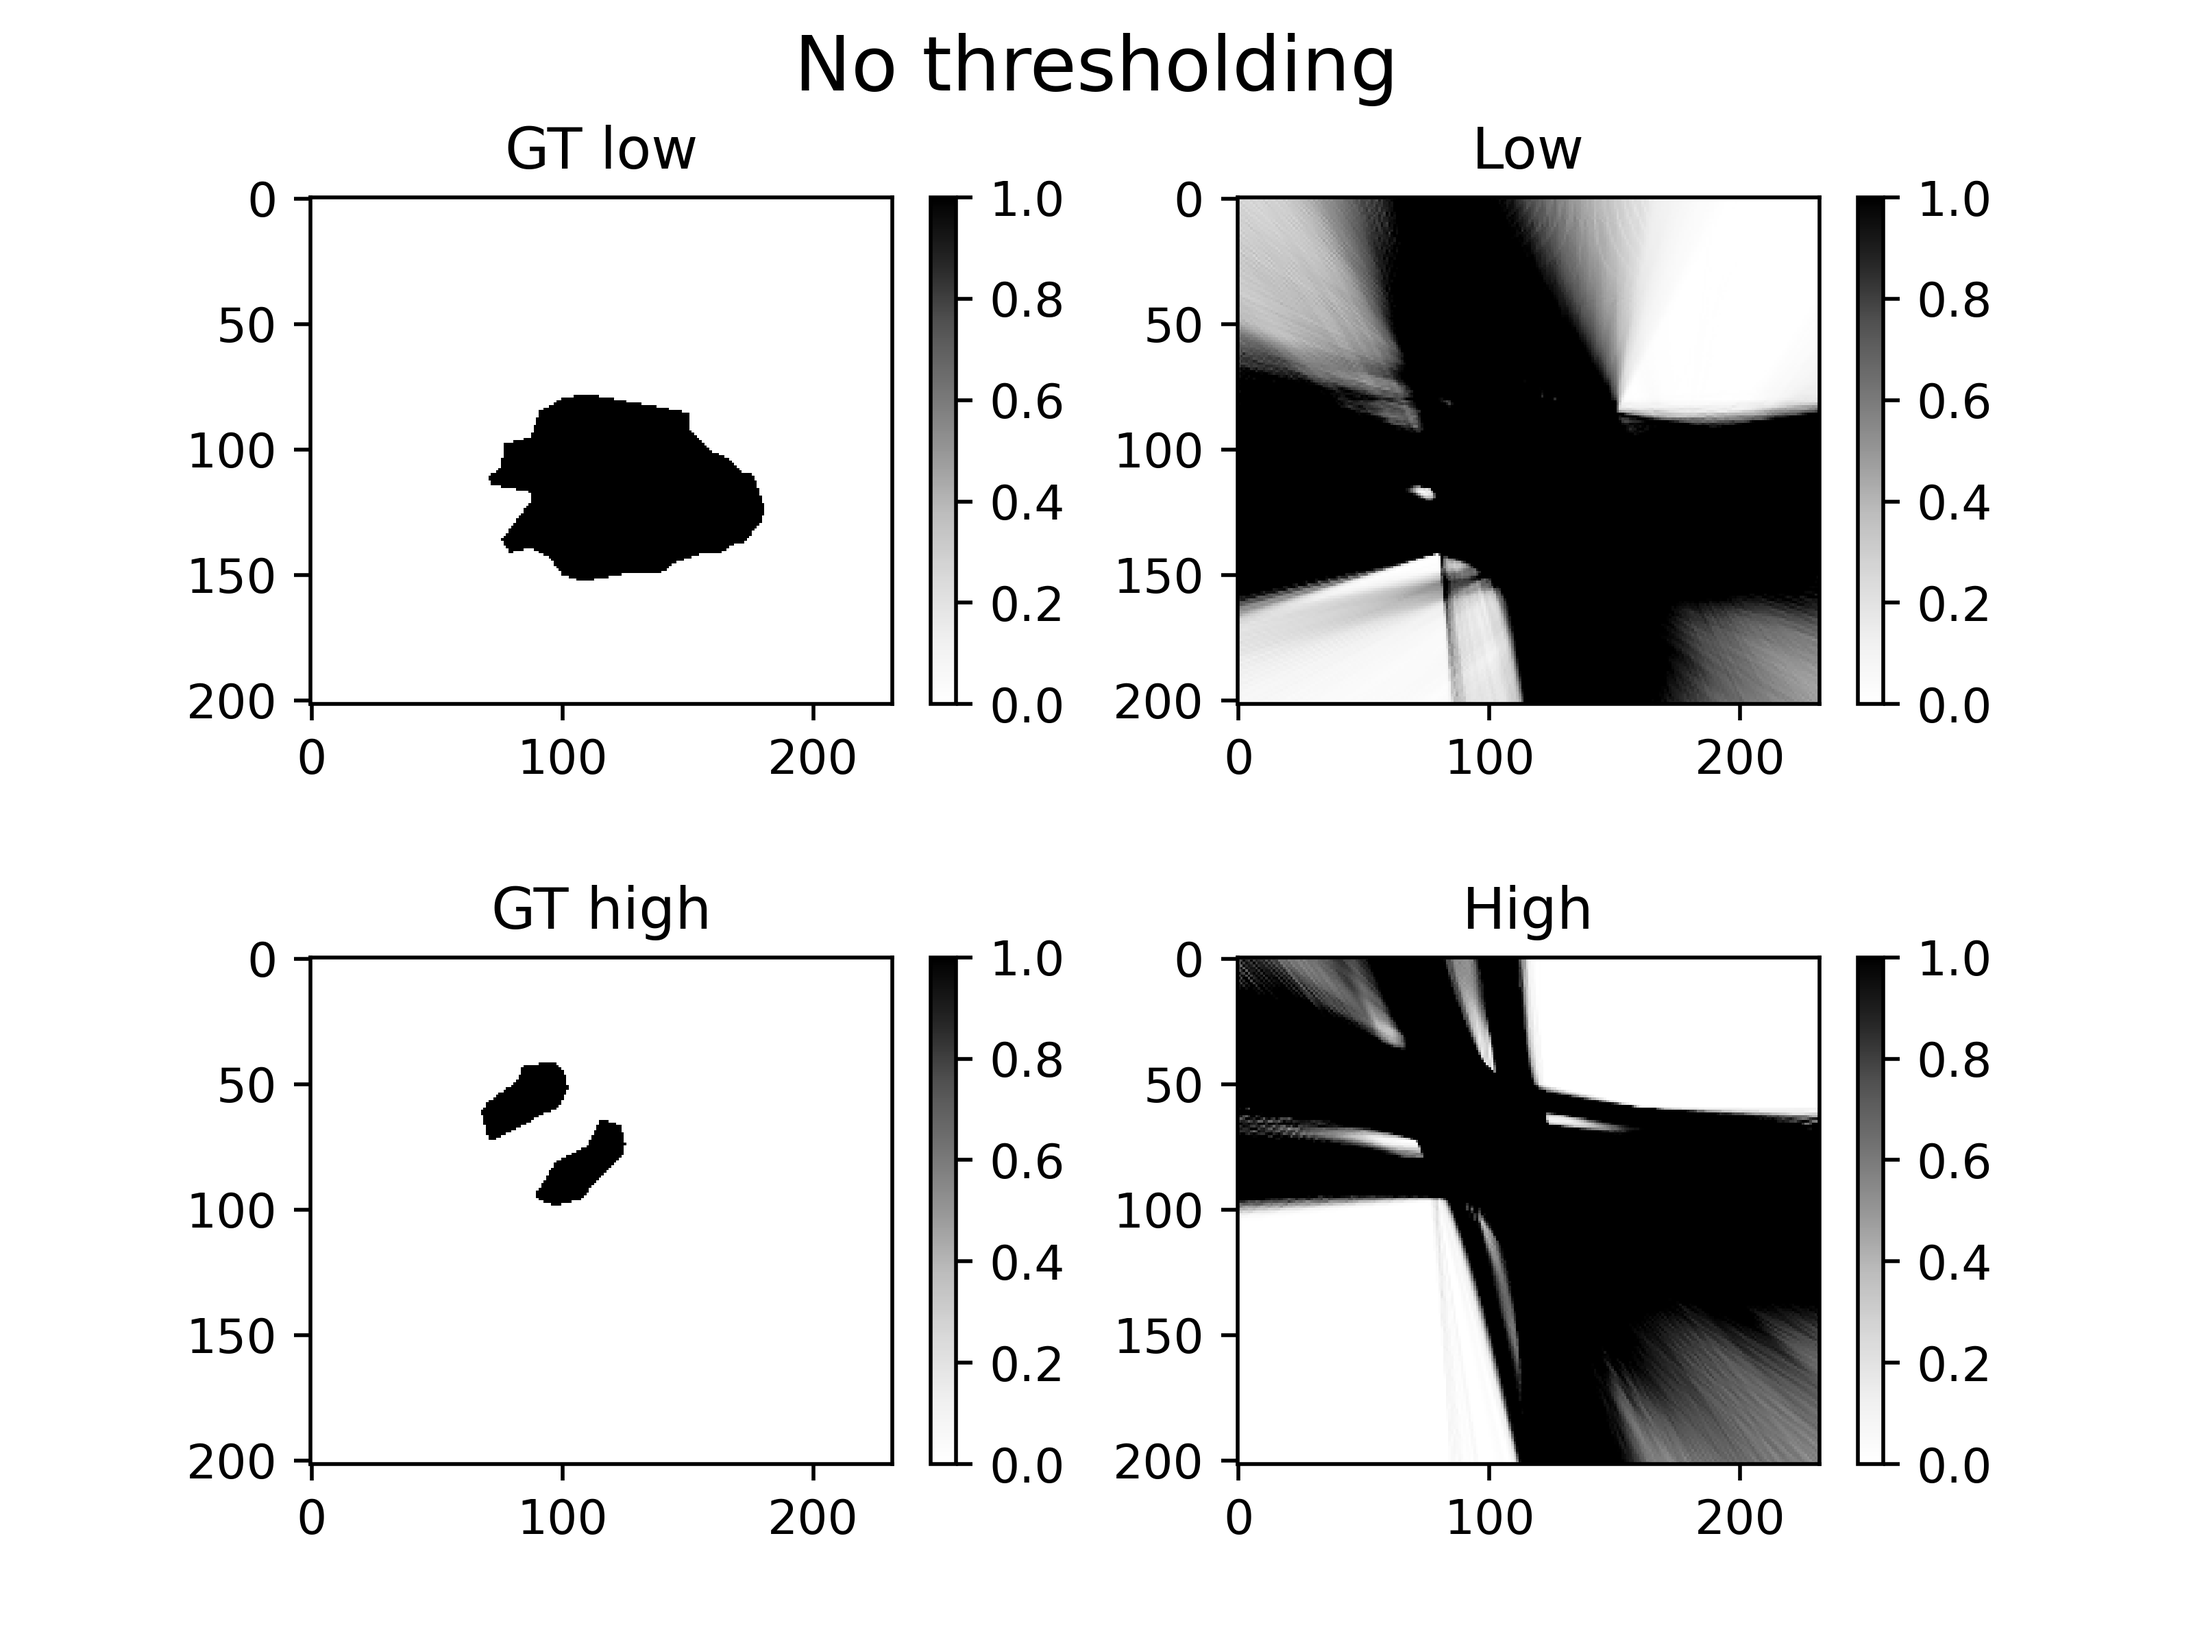
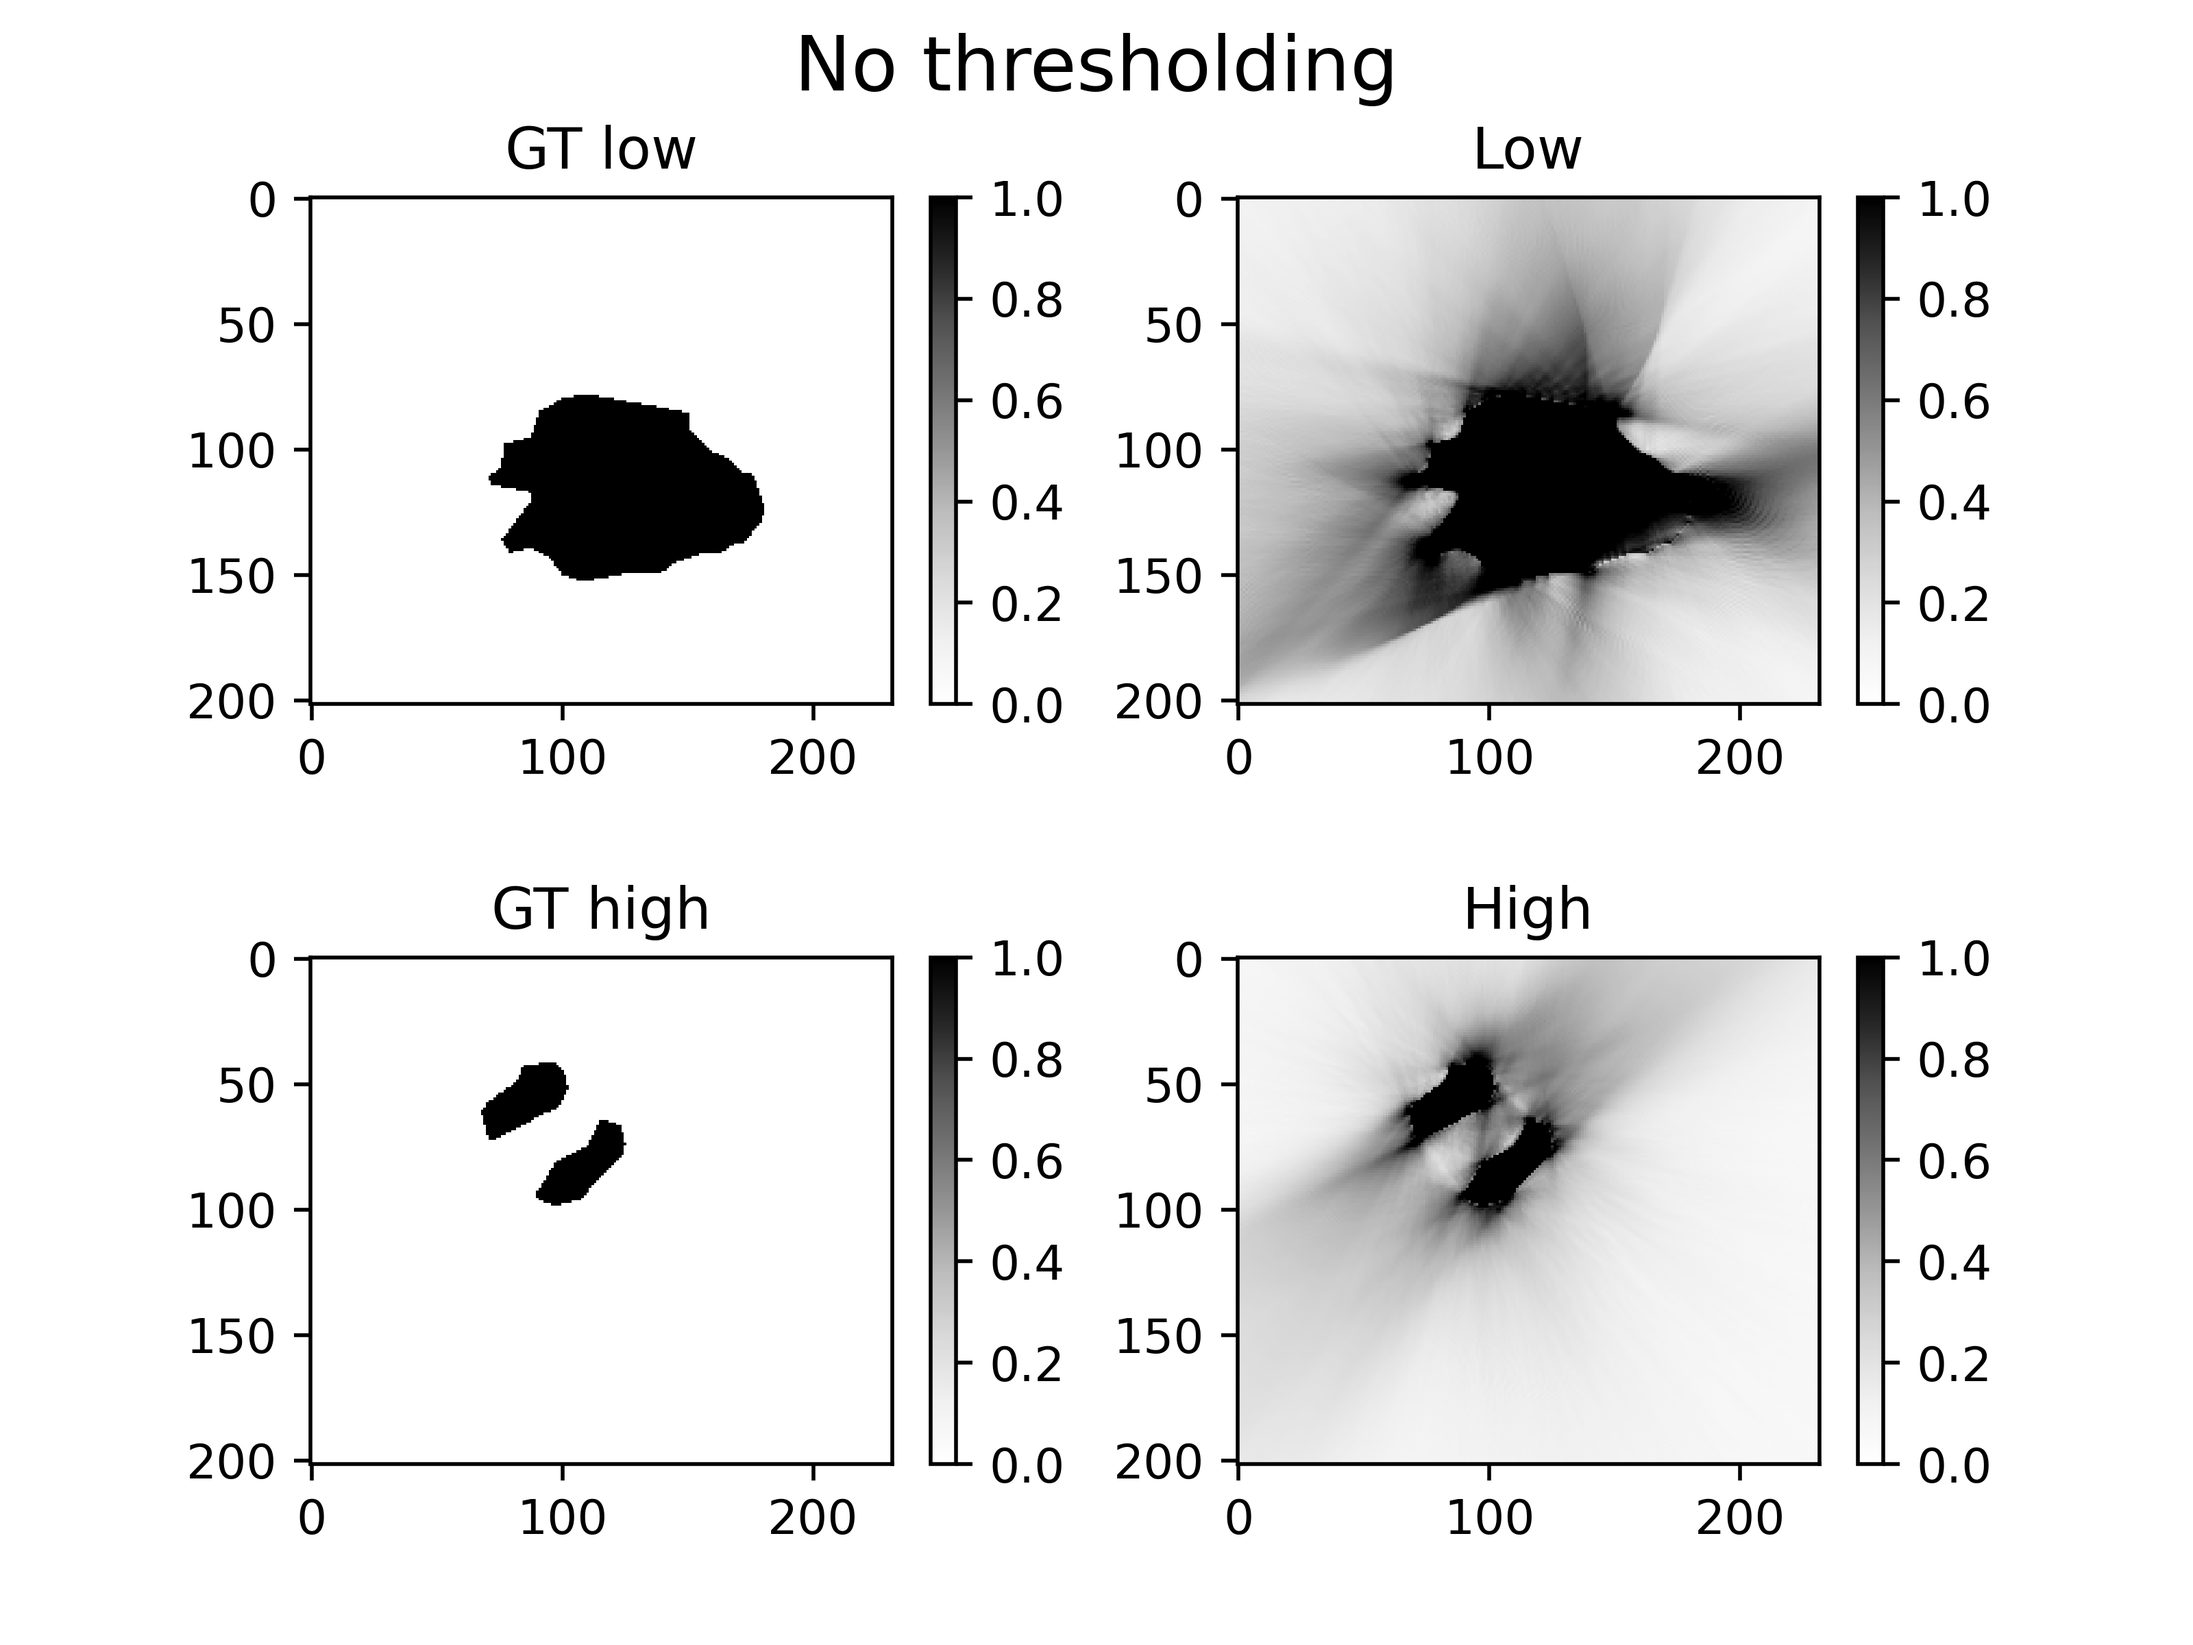
[xray] fixed refraction

Changed region(s): [[0.5625, 0.5625, 0.8438, 0.9062], [0.5625, 0.0938, 0.8438, 0.4375]]

diff --git a/src/pyxu/experimental/xray/refraction.py b/src/pyxu/experimental/xray/refraction.py
@@ -92,17 +92,19 @@ def intersection_line_sphere(
     xp = pxa.get_array_module(t_init)
 
     t_init_2 = t_init[:, :2]
-    n_dir_2 = n_dir[:, :2]
+    n_dir_2 = normalize(n_dir[:, :2])
     dot_prod = xp.einsum("ij,ij->i", t_init_2, n_dir_2)
 
     radicand = (dot_prod**2) + radius * radius - (t_init_2**2).sum(axis=-1)
 
     no_intersec_mask = radicand < 0 | xp.any(xp.isnan(n_dir), axis=-1)
-    radicand[no_intersec_mask] = 0.0
+    radicand[no_intersec_mask] = xp.nan
 
     sqrt_rad = xp.sqrt(radicand)
     x1 = -dot_prod + sqrt_rad
+    x1[x1 < 0] = xp.nan
     x2 = -dot_prod - sqrt_rad
+    x2[x2 < 0] = xp.nan
 
     v1 = t_init + n_dir * x1[:, xp.newaxis]
     v2 = t_init + n_dir * x2[:, xp.newaxis]
@@ -198,14 +200,14 @@ def sine(v, w):
     return sines
 
 
-def test_snell():
+def snell_test():
     k = np.array([[1, -1, 0], [-1, -4, -5], [-1, -2, 6], [5, 3, 2]])
     k = k / np.linalg.norm(k, axis=-1)[:, np.newaxis]
     k = k
     n = np.array([[0, 1, 0], [1, 5, 1], [1, 2, 9], [5, 1, 4]])
     n = n / np.linalg.norm(n, axis=-1)[:, np.newaxis]
-    n1 = 1.9
-    n2 = 1
+    n1 = 1.3
+    n2 = 1.6
     res1 = snell_vectorial(n1, n2, k, n)
 
     print(snell_vectorial(n1, n2, k, n))
@@ -215,12 +217,12 @@ def test_snell():
     print(n2 * sine(res1, n) - n1 * sine(k, n))
 
 
-def test_f():
+def refraction_test():
     c_spec = [1, 8, 0, 10, 0, 10]
-    r_spec = [1, 1.4, 1.45]
-    n_in = np.array([[-1, 0, 0], [-1, 0.4, 0.1]])
+    r_spec = [1, 1, 1]
+    n_in = np.array([[-1, 0, 0], [-1, 0.4, 0.1], [1, -0.4, 0.1]])
 
-    t_init = np.array([[20, 0, 5], [-10, 0, 5]])
+    t_init = np.array([[20, 0, 5], [-10, 0, 5], [-10, 0, 5]])
 
     n_out, t_out = refract(n_in, t_init, r_spec, c_spec)
 
@@ -228,5 +230,50 @@ def test_f():
     print(t_out)
 
 
+def refraction_test_2():
+    num_n = 4
+    num_t = 3
+
+    side = np.r_[200, 200]
+    pitch = 1.0
+
+    angle = np.linspace(0, 2 * np.pi, num_n, endpoint=False)
+    t_max = pitch * side / 2
+    t_offset = np.linspace(-t_max[0], t_max[1], num_t, endpoint=True)
+
+    n = np.stack([np.cos(angle), np.sin(angle)], axis=1)
+    t = n[:, [1, 0]] * np.r_[-1, 1]  # <n, t> = 0
+
+    n_spec = np.broadcast_to(n.reshape(num_n, 1, 2), (num_n, num_t, 2))
+    t_spec = t.reshape(num_n, 1, 2) * t_offset.reshape(num_t, 1)
+
+    external_diameter = 5 * max(t_max) + 10
+
+    t_spec -= 3 * external_diameter * n_spec
+
+    c_spec = [1, external_diameter, 0, 10, 0, 10]
+    r_spec = [1.0, 1.0, 1.0]
+
+    n_spec_copy, t_spec_copy = n_spec.copy(), t_spec.copy()
+
+    n_spec, t_spec = refract(
+        np.pad(n_spec.reshape(-1, 2), pad_width=[(0, 0), (0, 1)], constant_values=0),
+        np.pad(t_spec.reshape(-1, 2), pad_width=[(0, 0), (0, 1)], constant_values=5),
+        r_spec,
+        c_spec,
+    )
+    n_spec = n_spec[~np.isnan(n_spec)]
+    t_spec = t_spec[~np.isnan(t_spec)]
+    n_spec = normalize(n_spec.reshape(-1, 3)[:, :2])
+    t_spec = t_spec.reshape(-1, 3)[:, :2]
+
+    print(n_spec_copy)
+    print(t_spec_copy)
+    print(n_spec)
+    print(t_spec)
+
+    print(np.linalg.norm(n_spec - n_spec_copy.reshape(-1, 2)))
+
+
 if __name__ == "__main__":
-    test_f()
+    refraction_test_2()

diff --git a/src/pyxu/experimental/xray/2dtests/bunny_bhatt_multiple_runs_method/bunny_bhatt_multipruns.py b/src/pyxu/experimental/xray/2dtests/bunny_bhatt_multiple_runs_method/bunny_bhatt_multipruns.py
@@ -196,8 +196,14 @@ if refraction:
     possible_folders = [f"{x}_with_refraction" for x in possible_folders]
     folder = possible_folders[idx_chosen]
 
-    c_spec = [1, 2 * max(t_max) + 10, 0, 10, 0, 10]
+    external_diameter = 5 * max(t_max) + 10
+
+    c_spec = [1, external_diameter, 0, 10, 0, 10]
     r_spec = [1, 1.4, 1.45]
+
+    t_spec -= 3 * external_diameter * n_spec
+
+    n_spec_copy, t_spec_copy = n_spec.copy(), t_spec.copy()
 
     n_spec, t_spec = refract(
         np.pad(n_spec.reshape(-1, 2), pad_width=[(0, 0), (0, 1)], constant_values=0),
@@ -210,7 +216,6 @@ if refraction:
     n_spec = normalize(n_spec.reshape(-1, 3)[:, :2])
     t_spec = t_spec.reshape(-1, 3)[:, :2]
 
-    t_spec += pitch * side / 2
 
 unweighted_xrt = xray.RayXRT(
     dim_shape=ground_truth[0].shape,
@@ -220,8 +225,8 @@ unweighted_xrt = xray.RayXRT(
     t_spec=t_spec.reshape(-1, 2),
 )
 
-fig = unweighted_xrt.diagnostic_plot()
-fig.savefig("./diag.png")
+# fig = unweighted_xrt.diagnostic_plot()
+# fig.savefig("./diag.png")
 
 lcav_low = ReconstructionTechnique(
     ground_truth=ground_truth[0],
